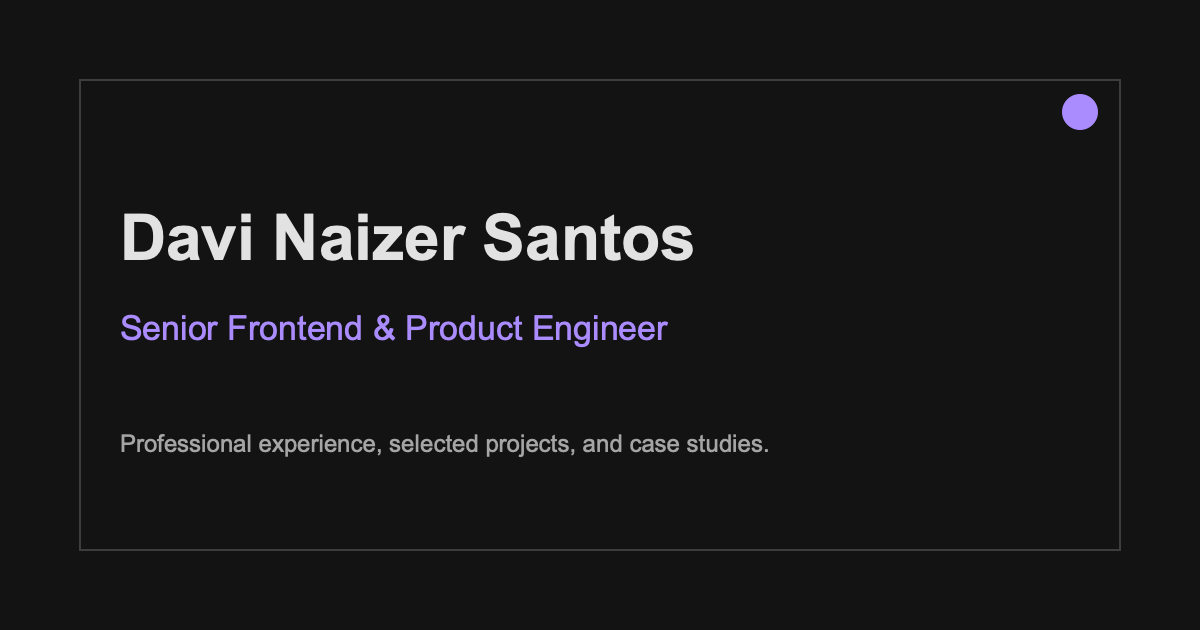
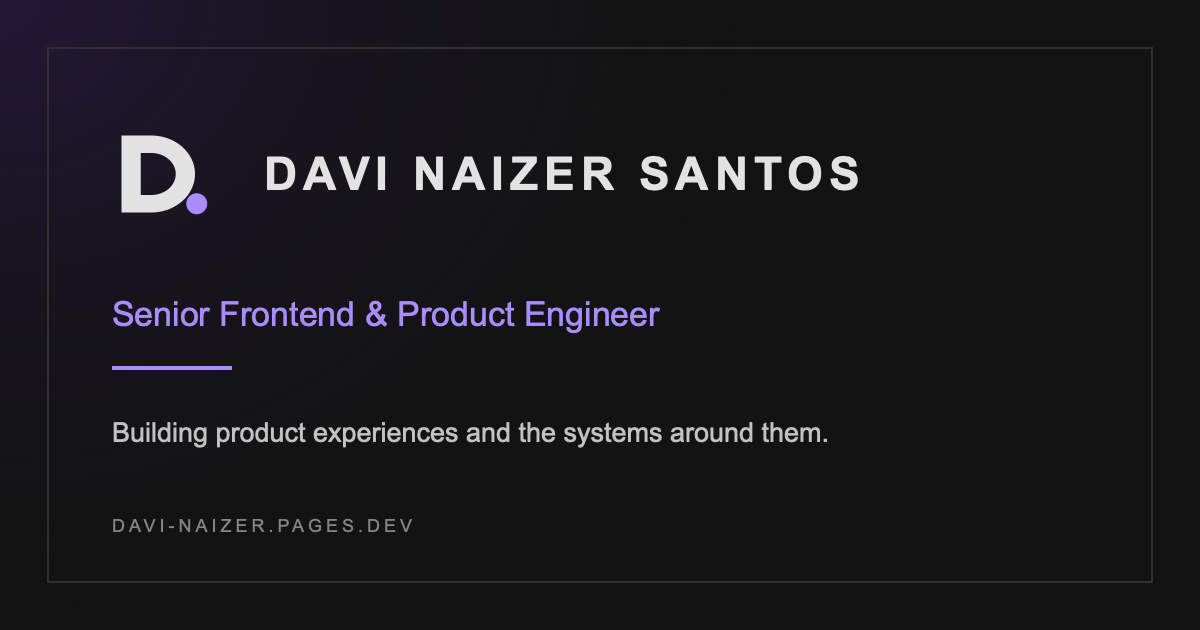
chore: refine Open Graph metadata

diff --git a/index.html b/index.html
@@ -21,7 +21,10 @@
     <meta property="og:type" content="website" />
     <meta property="og:url" content="https://davi-naizer.pages.dev/" />
     <meta property="og:site_name" content="Davi Naizer Santos" />
+    <meta property="og:locale" content="en_GB" />
     <meta property="og:image" content="https://davi-naizer.pages.dev/social-preview.png" />
+    <meta property="og:image:secure_url" content="https://davi-naizer.pages.dev/social-preview.png" />
+    <meta property="og:image:type" content="image/png" />
     <meta property="og:image:width" content="1200" />
     <meta property="og:image:height" content="630" />
     <meta property="og:image:alt" content="Davi Naizer Santos, Senior Frontend and Product Engineer" />
@@ -32,7 +35,8 @@
       content="Senior frontend and product engineer building product experiences and the systems that make software easier to build, maintain, and use."
     />
     <meta name="twitter:image" content="https://davi-naizer.pages.dev/social-preview.png" />
-    <title>Davi Naizer Santos</title>
+    <meta name="twitter:image:alt" content="Davi Naizer Santos, Senior Frontend and Product Engineer" />
+    <title>Davi Naizer Santos | Senior Frontend &amp; Product Engineer</title>
   </head>
   <body>
     <div id="root"></div>

diff --git a/docs/plans/2026-09-16-og-preview-refinement.md b/docs/plans/2026-09-16-og-preview-refinement.md
@@ -1,0 +1,42 @@
+---
+title: Refine Open Graph metadata and social preview
+status: approved
+createdAt: 2026-09-16
+approvedAt: 2026-09-16
+---
+
+# Refine Open Graph metadata and social preview
+
+## Objective
+
+Improve the existing publication metadata against the `datakreo.com` OpenGraph.to baseline and replace the generic social-preview placeholder with a project-specific branded image.
+
+## Scope
+
+- Make the HTML title consistent with the descriptive Open Graph title.
+- Add `og:locale`, `og:image:secure_url`, and `og:image:type`.
+- Add Twitter image alt text.
+- Replace `public/social-preview.png` with a branded `1200x630` PNG using the existing dark and purple visual identity.
+- Preserve the existing canonical URL, description, route-independent metadata model, favicon, and manifest metadata.
+
+## Exclusions
+
+- No `twitter:site` without an approved X/Twitter account.
+- No JSON-LD, `hreflang`, route-specific metadata, or runtime metadata dependency.
+- No deployment or live OpenGraph.to scan.
+- No route, application-content, or architecture changes.
+
+## Completion Criteria
+
+1. The approved metadata additions are present in `index.html` and use consistent values.
+2. The replacement preview is a readable, branded `1200x630` PNG with safe social-preview margins.
+3. The metadata image URL and generated public asset remain aligned.
+4. `pnpm validate` and `pnpm build` pass.
+5. The generated metadata and image are manually inspected.
+
+## Validation
+
+- `pnpm validate`
+- `pnpm build`
+- Inspect `dist/index.html` and `dist/social-preview.png`.
+- Verify the PNG format and dimensions.
